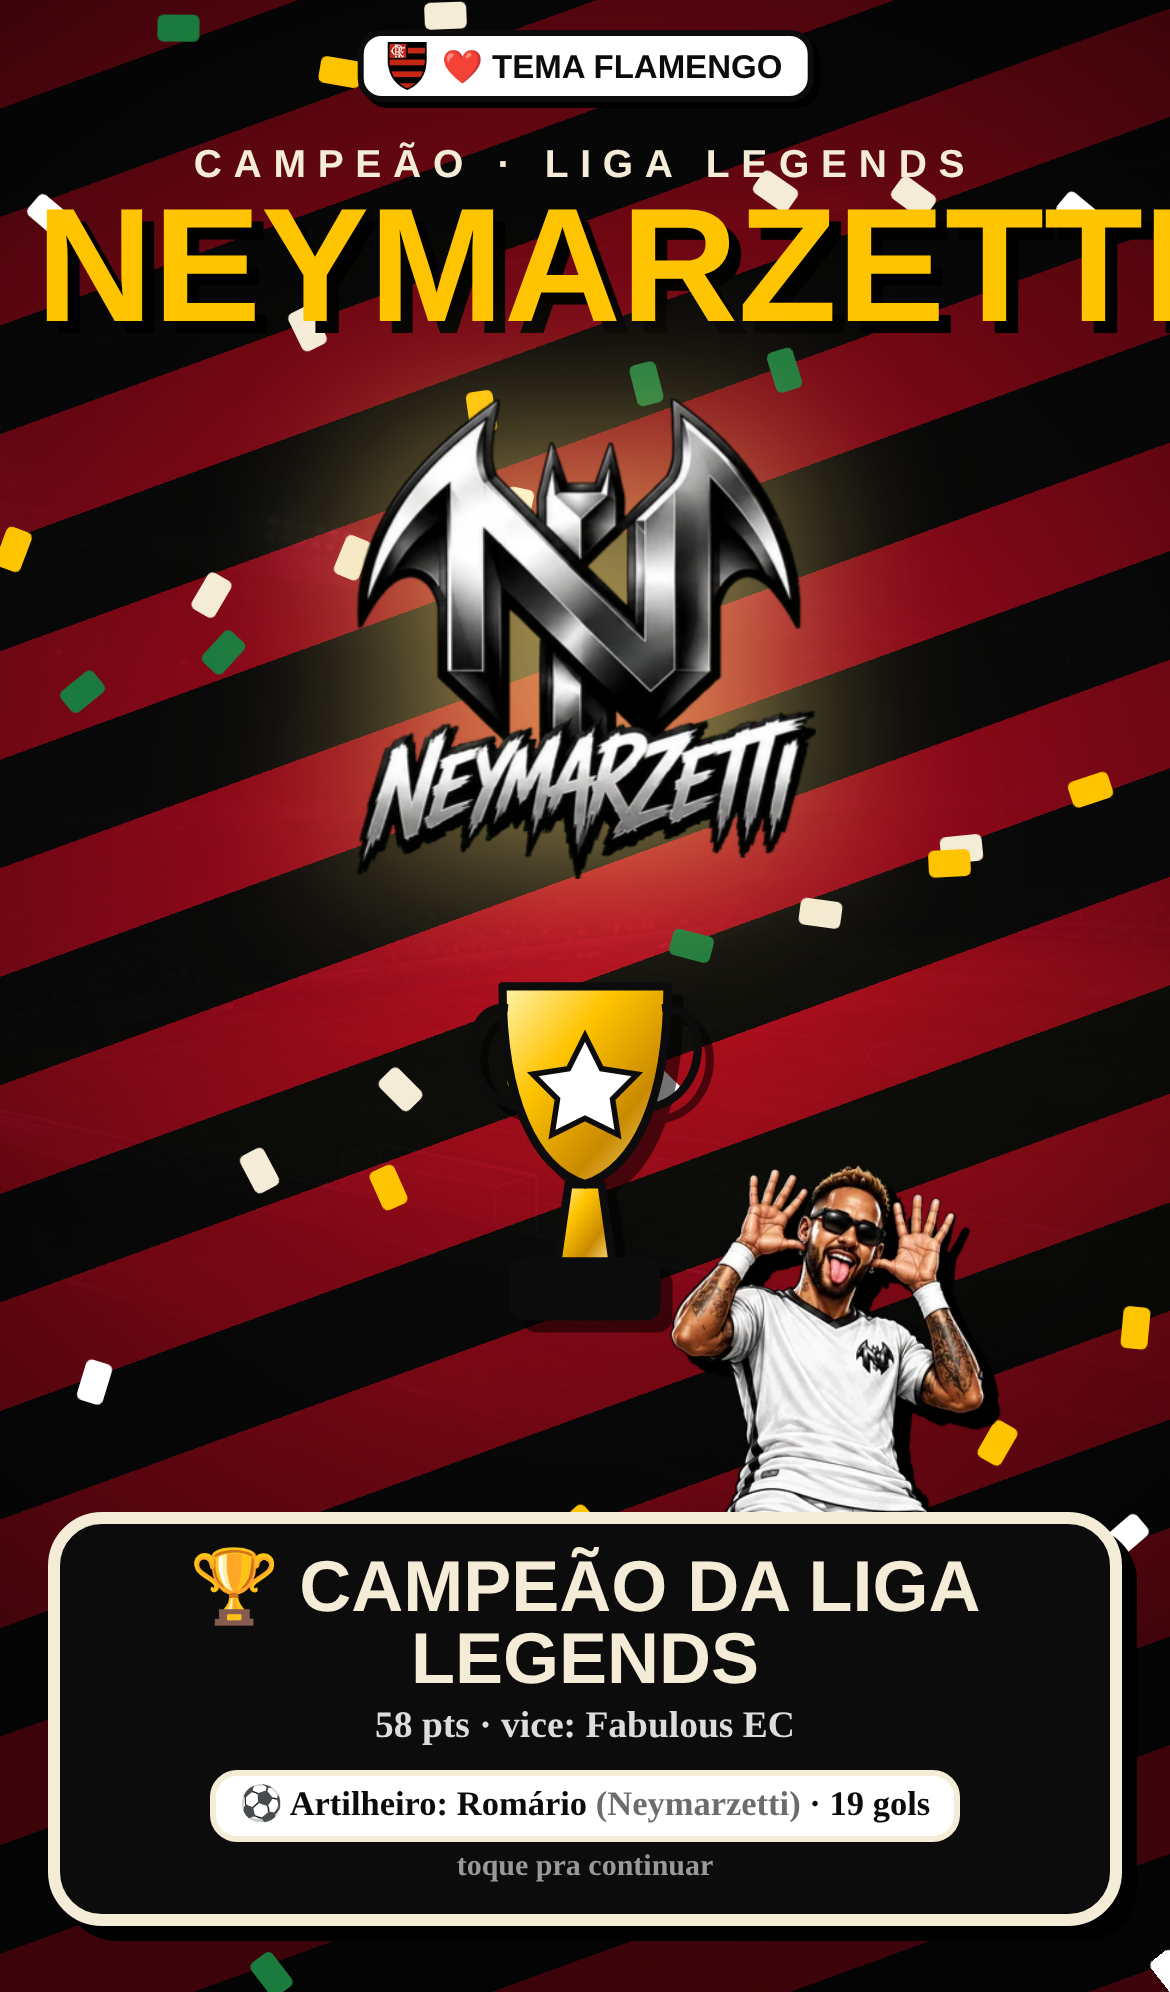
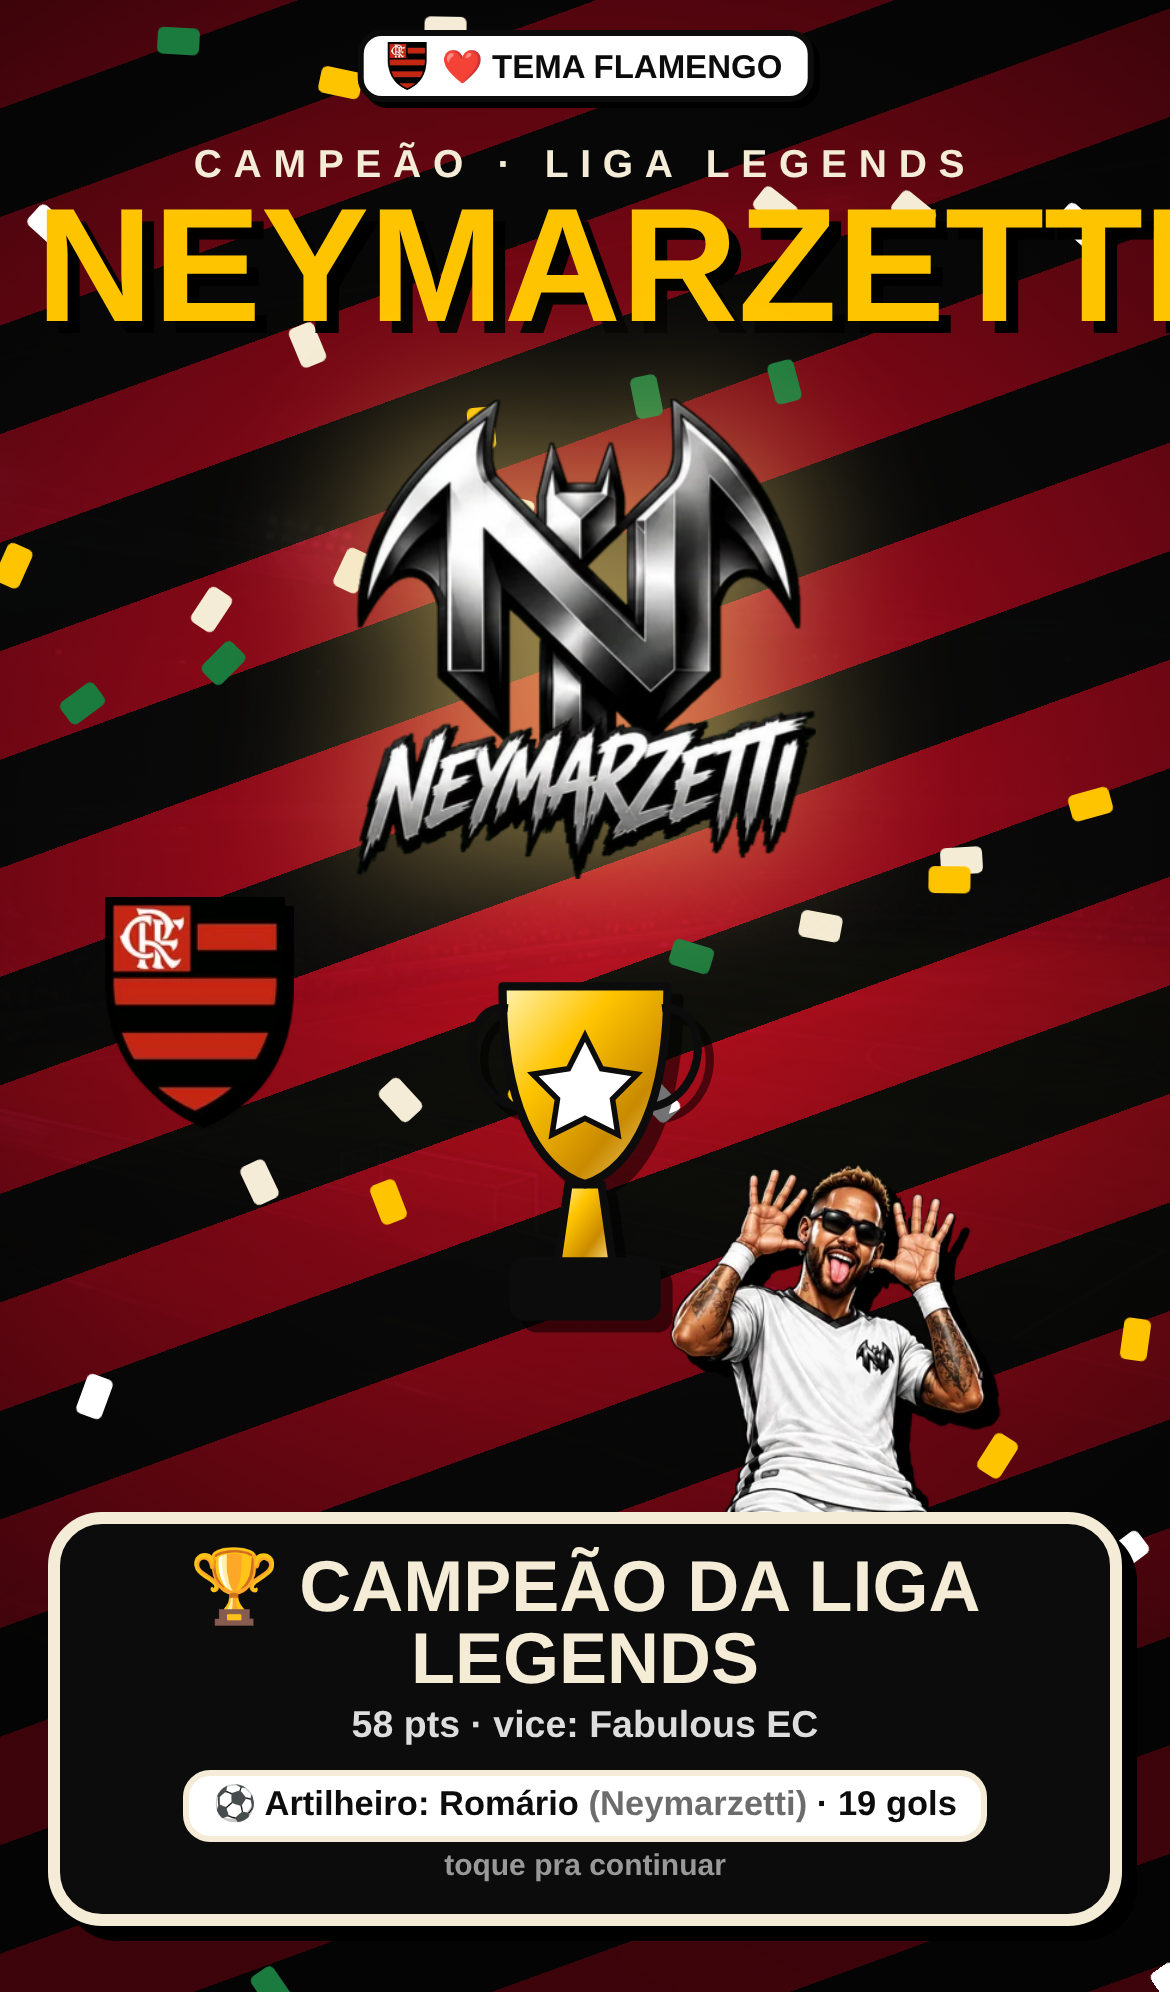
Tema de time de coração: escudo grande e visível no fundo da sala de espera; escudo pequeno do tema ao lado do troféu na festa de campeão
Claude-Session: https://claude.ai/code/session_012GPrTDbpvrApA6DArkzCpE

diff --git a/src/escalacao/competicoes-visual.tsx b/src/escalacao/competicoes-visual.tsx
@@ -214,6 +214,8 @@ export function FestaCampeao({ comp, nome, crest, mascote, lendas = [], linha, s
           <div style={{ animation: 'fcBrilho 1.6s .8s infinite' }}>{crest}</div>
         </div>
         <div style={{ position: 'absolute', top: '44%', left: 0, right: 0, display: 'flex', justifyContent: 'center', animation: 'fcSobe .6s .6s both' }}><Trofeu comp={comp} size={110} /></div>
+        {/* 🎨 10/11 (Diego: *"quero que apareça o escudo pequeno no tema de campeão"*): o escudo do tema, pequeno, ao lado do troféu */}
+        {tema && <img src={tema.escudo} alt="" style={{ position: 'absolute', top: '45%', left: '9%', height: 74, maxWidth: 80, objectFit: 'contain', transform: 'rotate(-8deg)', filter: 'drop-shadow(3px 3px 0 #000)', animation: 'fcSobe .6s .8s both' }} />}
         {vis.length > 0 && <div style={{ position: 'absolute', bottom: 108, left: 4, display: 'flex', animation: 'fcSobe .6s 1s both' }}>
           {vis.map(l => { const art = legendAvatar(l.nome, l.club, l.year); return art ? <img key={l.nome} src={art.src} alt={l.nome} style={{ width: 104, height: 150, objectFit: 'cover', objectPosition: 'center top', filter: 'drop-shadow(4px 4px 0 #000)' }} /> : null })}
         </div>}

diff --git a/src/escalacao/temas-sala.css b/src/escalacao/temas-sala.css
@@ -23,7 +23,7 @@
 .tema-sala.tema-k9_gelo .tema-marca,.tema-sala.tema-k9_branco .tema-marca{filter:none}
 .tema-listras{position:absolute;inset:-20%;transform:skewY(-8deg);opacity:.9}
 .tema-sombra{position:absolute;inset:0;background:radial-gradient(ellipse at 50% 20%,rgba(0,0,0,.2),rgba(0,0,0,.65) 80%)}
-.tema-marca.tema-marca-cor{filter:drop-shadow(0 0 20px rgba(0,0,0,.5));opacity:.2;top:62%;width:min(70vw,360px)}
+.tema-marca.tema-marca-cor{filter:drop-shadow(0 0 24px rgba(0,0,0,.6));opacity:.55;top:50%;width:min(78vw,400px);max-height:70vh;object-fit:contain} /* 10/11 (Diego: *"no tema da sala apareça grande o fundo do time… faltou o escudo"*): era .2 e sumia atrás das caixas */
 .tema-torcida{position:absolute;left:0;right:0;bottom:0;height:150px;opacity:.9;background:
   radial-gradient(circle at 10px 12px,#111 9px,transparent 10px) 0 0/22px 26px,
   radial-gradient(circle at 10px 12px,#222 9px,transparent 10px) 11px 13px/22px 26px}
